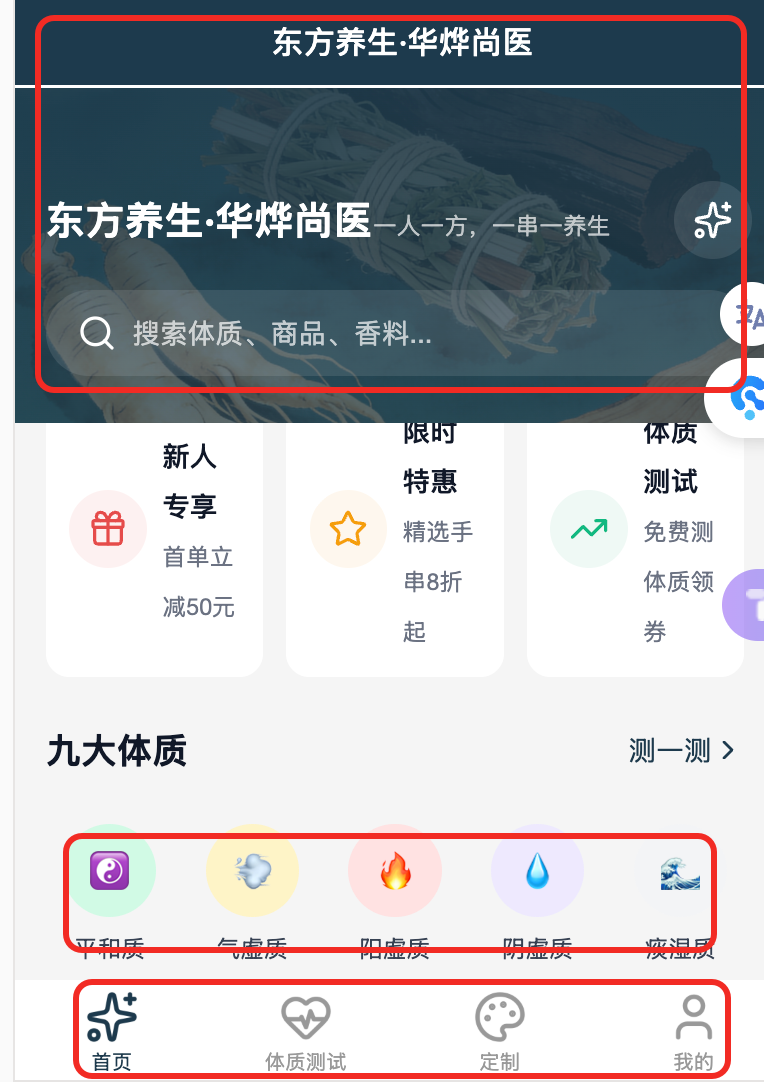
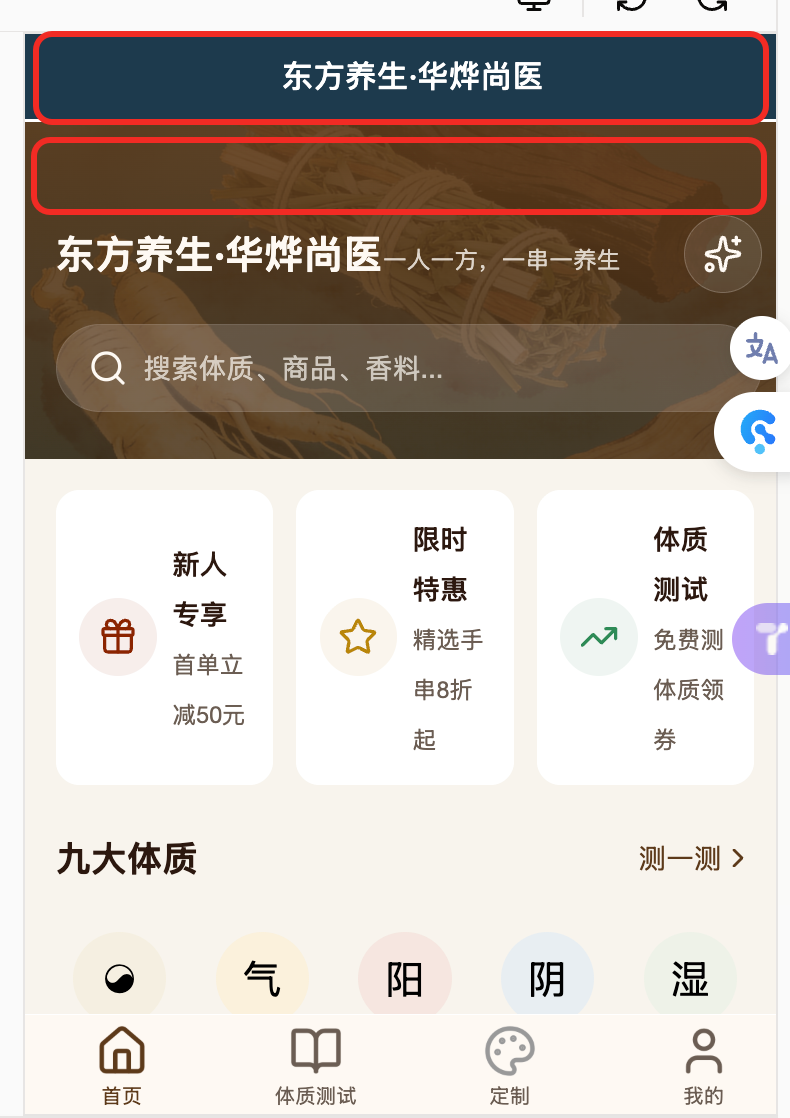
fix: 统一TabBar背景色与页面主体色调
- 将TabBar背景色从#FDF9F3（宣纸白）改为#F7F4ED（米黄）
- 确保底部导航栏与页面背景色保持一致的视觉体验"

diff --git a/src/app.config.ts b/src/app.config.ts
@@ -19,7 +19,7 @@ export default defineAppConfig({
   tabBar: {
     color: '#6B5D52',
     selectedColor: '#5D3A1A',
-    backgroundColor: '#FDF9F3',
+    backgroundColor: '#F7F4ED',
     borderStyle: 'white',
     list: [
       {
